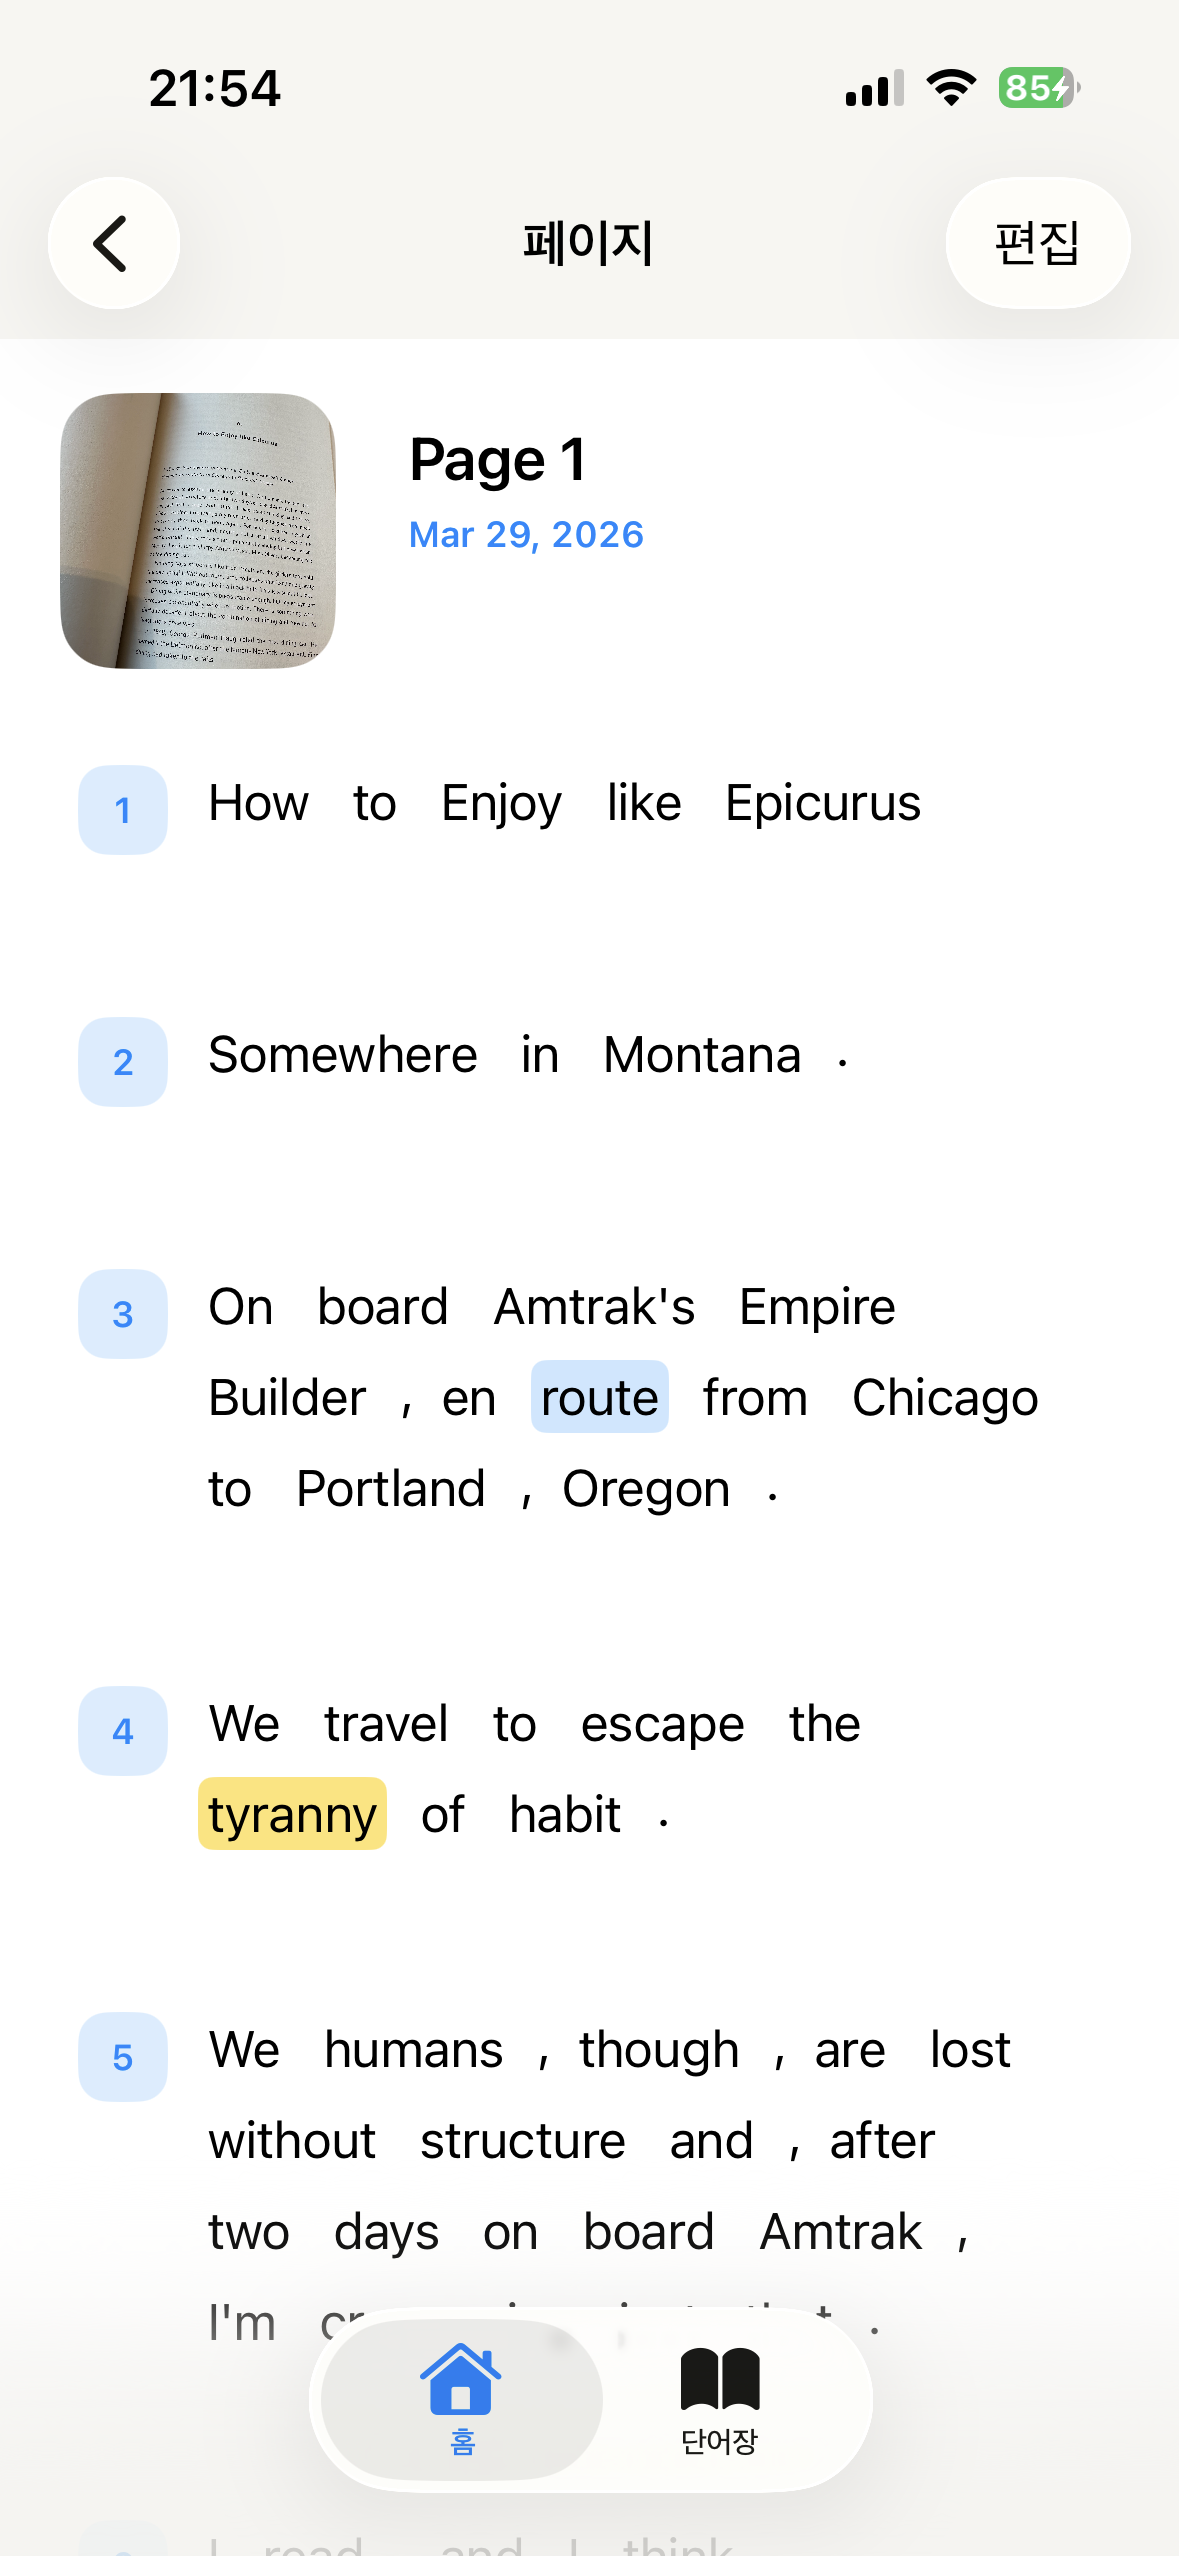
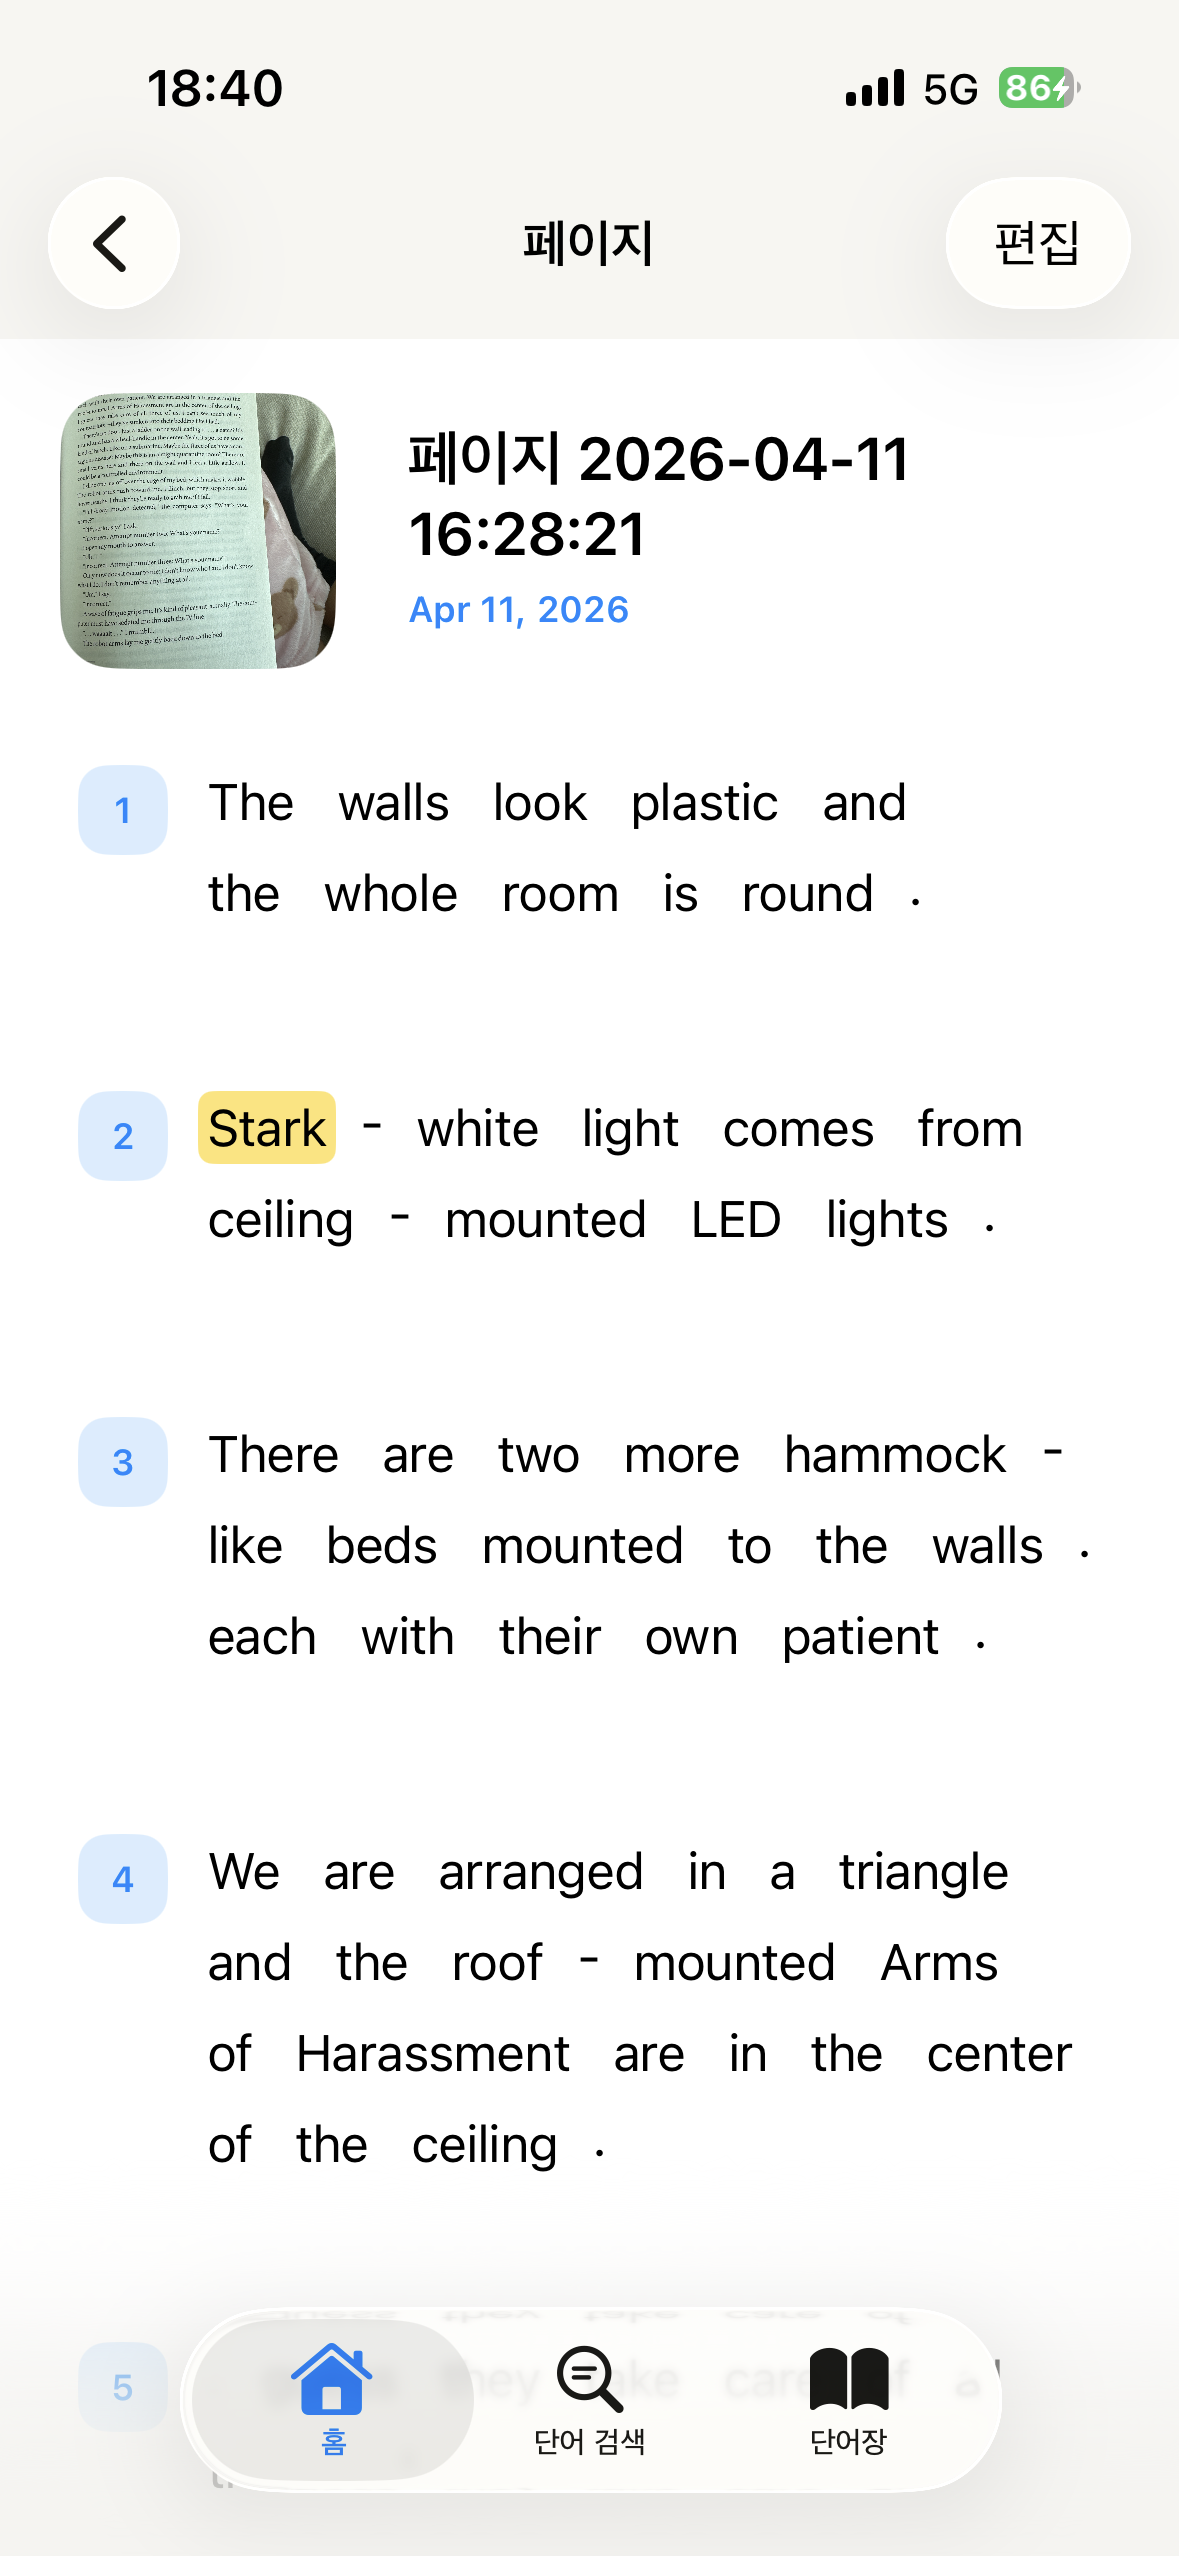
Update README and screenshots
- document the new word search flow across README files

- refresh app screenshots for updated search and vocabulary features

- include the new word search screenshot asset

diff --git a/README.md b/README.md
@@ -1,14 +1,15 @@
 # Lumio
 
-Lumio is an iOS reading companion for English book readers. It helps users capture book pages, extract readable text, translate sentences and words into Korean, and save useful vocabulary for later review.
+Lumio is an iOS reading companion for English book readers. It helps users capture book pages, extract readable text, translate sentences and words into Korean, look up words directly from a dedicated search tab, and save useful vocabulary for later review.
 
-Lumio는 영어 원서를 읽는 사용자를 위한 iOS 읽기 보조 앱입니다. 책 페이지를 촬영하거나 불러와 텍스트를 추출하고, 문장과 단어를 한국어로 번역하며, 중요한 단어를 저장해 다시 복습할 수 있게 도와줍니다.
+Lumio는 영어 원서를 읽는 사용자를 위한 iOS 읽기 보조 앱입니다. 책 페이지를 촬영하거나 불러와 텍스트를 추출하고, 문장과 단어를 한국어로 번역하며, 전용 검색 탭에서 단어를 바로 조회하고, 중요한 단어를 저장해 다시 복습할 수 있게 도와줍니다.
 
 ## Key Features
 
 - Capture or import English book pages
 - Extract sentence-level text from page images with OCR
 - Translate sentences and words from English to Korean
+- Look up words directly from the `Word Search` tab and keep recent lookups
 - Save words into a personal vocabulary notebook
 - Organize saved pages by book
 
@@ -17,23 +18,26 @@ Lumio는 영어 원서를 읽는 사용자를 위한 iOS 읽기 보조 앱입니
 <table>
   <tr>
     <td align="center"><strong>Books</strong></td>
-    <td align="center"><strong>Page List</strong></td>
-    <td align="center"><strong>Page Detail</strong></td>
+    <td align="center"><strong>Word Search</strong></td>
+    <td align="center"><strong>Vocabulary</strong></td>
+    
   </tr>
   <tr>
     <td align="center"><img src="./docs/screenshots/books.PNG" alt="Books" width="220"></td>
-    <td align="center"><img src="./docs/screenshots/page_list.PNG" alt="Page List" width="220"></td>
-    <td align="center"><img src="./docs/screenshots/page_detail.PNG" alt="Page Detail" width="220"></td>
+    <td align="center"><img src="./docs/screenshots/word_search.PNG" alt="Word Search" width="220"></td>
+    <td align="center"><img src="./docs/screenshots/vocabulary.PNG" alt="Vocabulary" width="220"></td>
   </tr>
   <tr>
+    <td align="center"><strong>Page List</strong></td>
+    <td align="center"><strong>Page Detail</strong></td>
     <td align="center"><strong>Sentence Meaning</strong></td>
     <td align="center"><strong>Word Meaning</strong></td>
-    <td align="center"><strong>Vocabulary</strong></td>
   </tr>
   <tr>
+    <td align="center"><img src="./docs/screenshots/page_list.PNG" alt="Page List" width="220"></td>
+    <td align="center"><img src="./docs/screenshots/page_detail.PNG" alt="Page Detail" width="220"></td>
     <td align="center"><img src="./docs/screenshots/sentence_meaning.PNG" alt="Sentence Meaning" width="220"></td>
     <td align="center"><img src="./docs/screenshots/word_meaning.PNG" alt="Word Meaning" width="220"></td>
-    <td align="center"><img src="./docs/screenshots/vocabulary.PNG" alt="Vocabulary" width="220"></td>
   </tr>
 </table>
 

diff --git a/README.en.md b/README.en.md
@@ -4,15 +4,17 @@
 
 ## Overview
 
-Lumio is an iOS app for readers of English books who want to capture pages, extract text, review translations, and save useful vocabulary while reading. It turns page photos into study material that can be organized by book and reviewed later.
+Lumio is an iOS app for readers of English books who want to capture pages, extract text, review translations, look up words directly from a dedicated search tab, and save useful vocabulary while reading. It turns page photos into study material that can be organized by book and reviewed later.
 
 ## Features
 
 - Capture or import English book pages from the camera or photo library.
 - Run OCR on uploaded page images and split the detected text into sentences.
 - Open sentences and words to view Korean translations.
+- Look up words directly from the `Word Search` tab and keep a recent lookup history.
 - Listen to English sentence and word pronunciation with text-to-speech.
 - Save important words into a personal vocabulary notebook.
+- Edit meanings from the current lookup result, recent lookups, and vocabulary with a shared correction flow.
 - Organize pages by book and manage saved page order.
 
 ## Tech Stack
@@ -27,9 +29,16 @@ Lumio is an iOS app for readers of English books who want to capture pages, extr
 ## App Structure
 
 - `Home`: book library and upload entry point
+- `Word Search`: direct word lookup, recent history, web dictionary link, and meaning edits
 - `Book Detail`: page list and page-level management
 - `Page Detail`: OCR result review, translation, and word lookup
 - `Vocabulary`: saved word review
+
+## Screenshots
+
+- `Word Search`: screenshot placeholder
+- `Recent Lookups`: screenshot placeholder
+- `Meaning Edit`: screenshot placeholder
 
 ## Requirements
 
